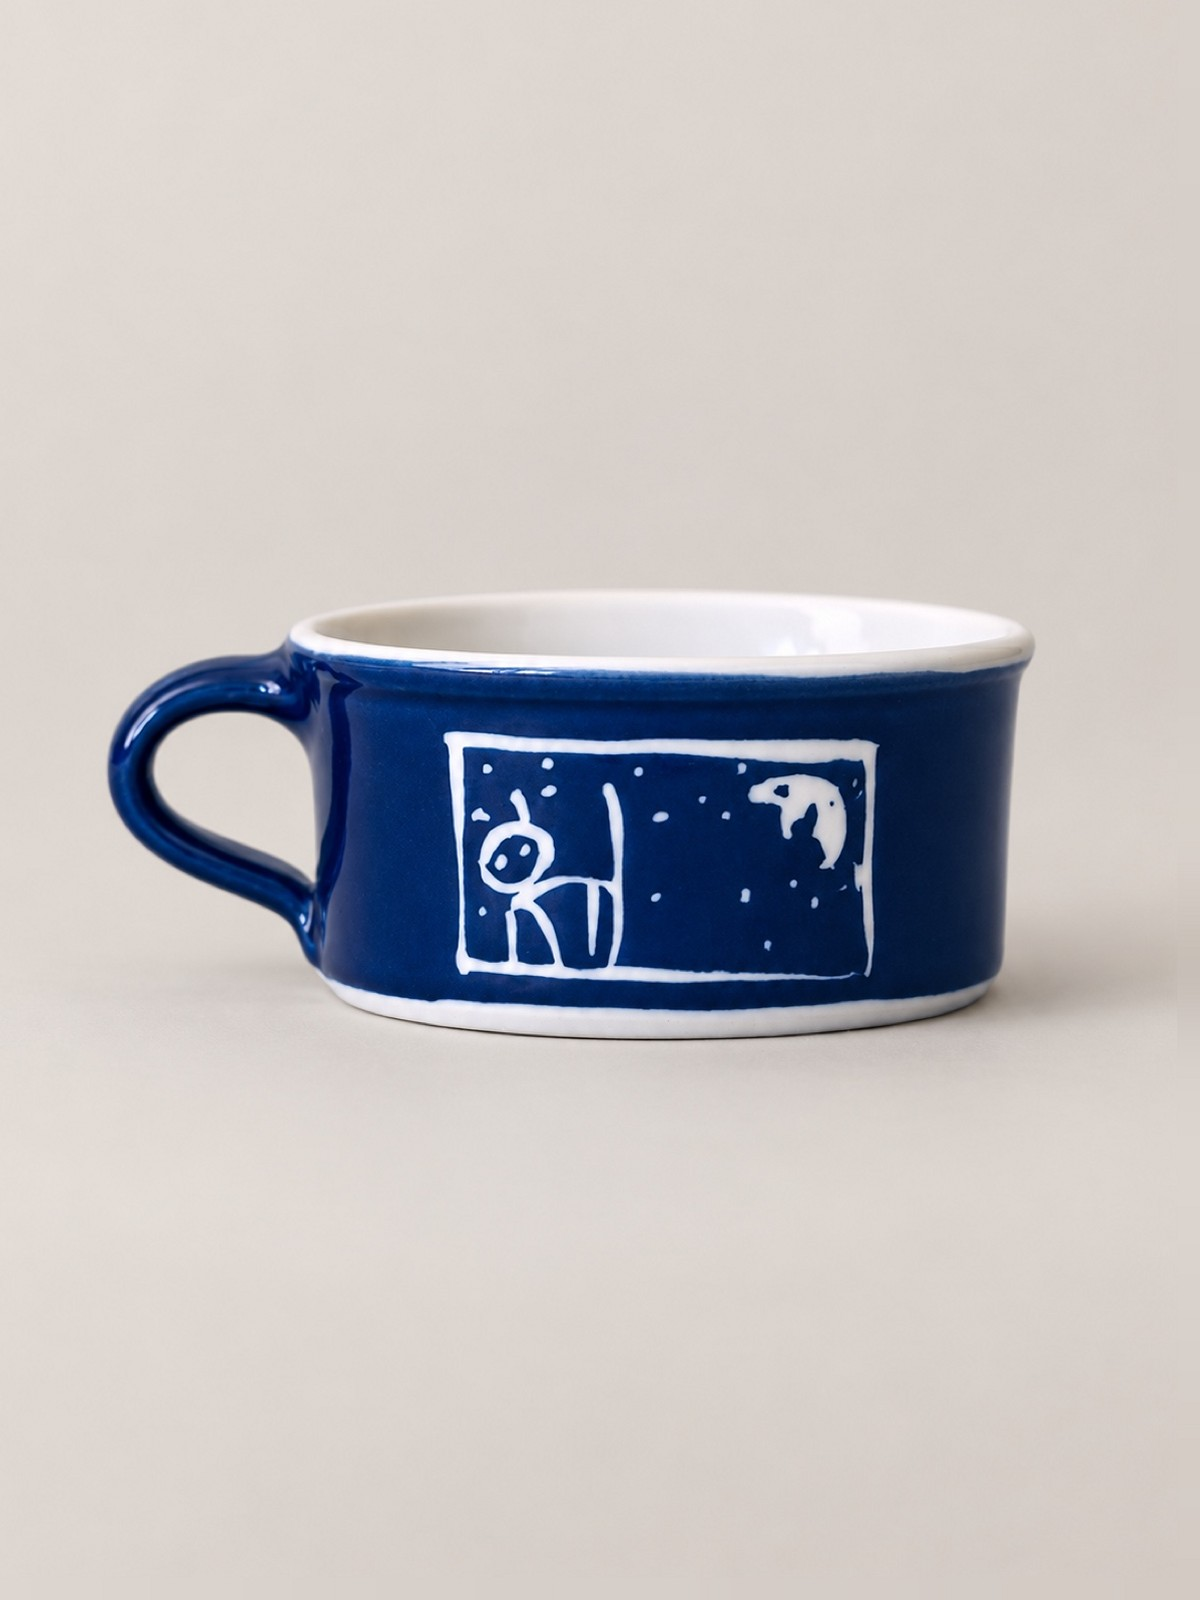
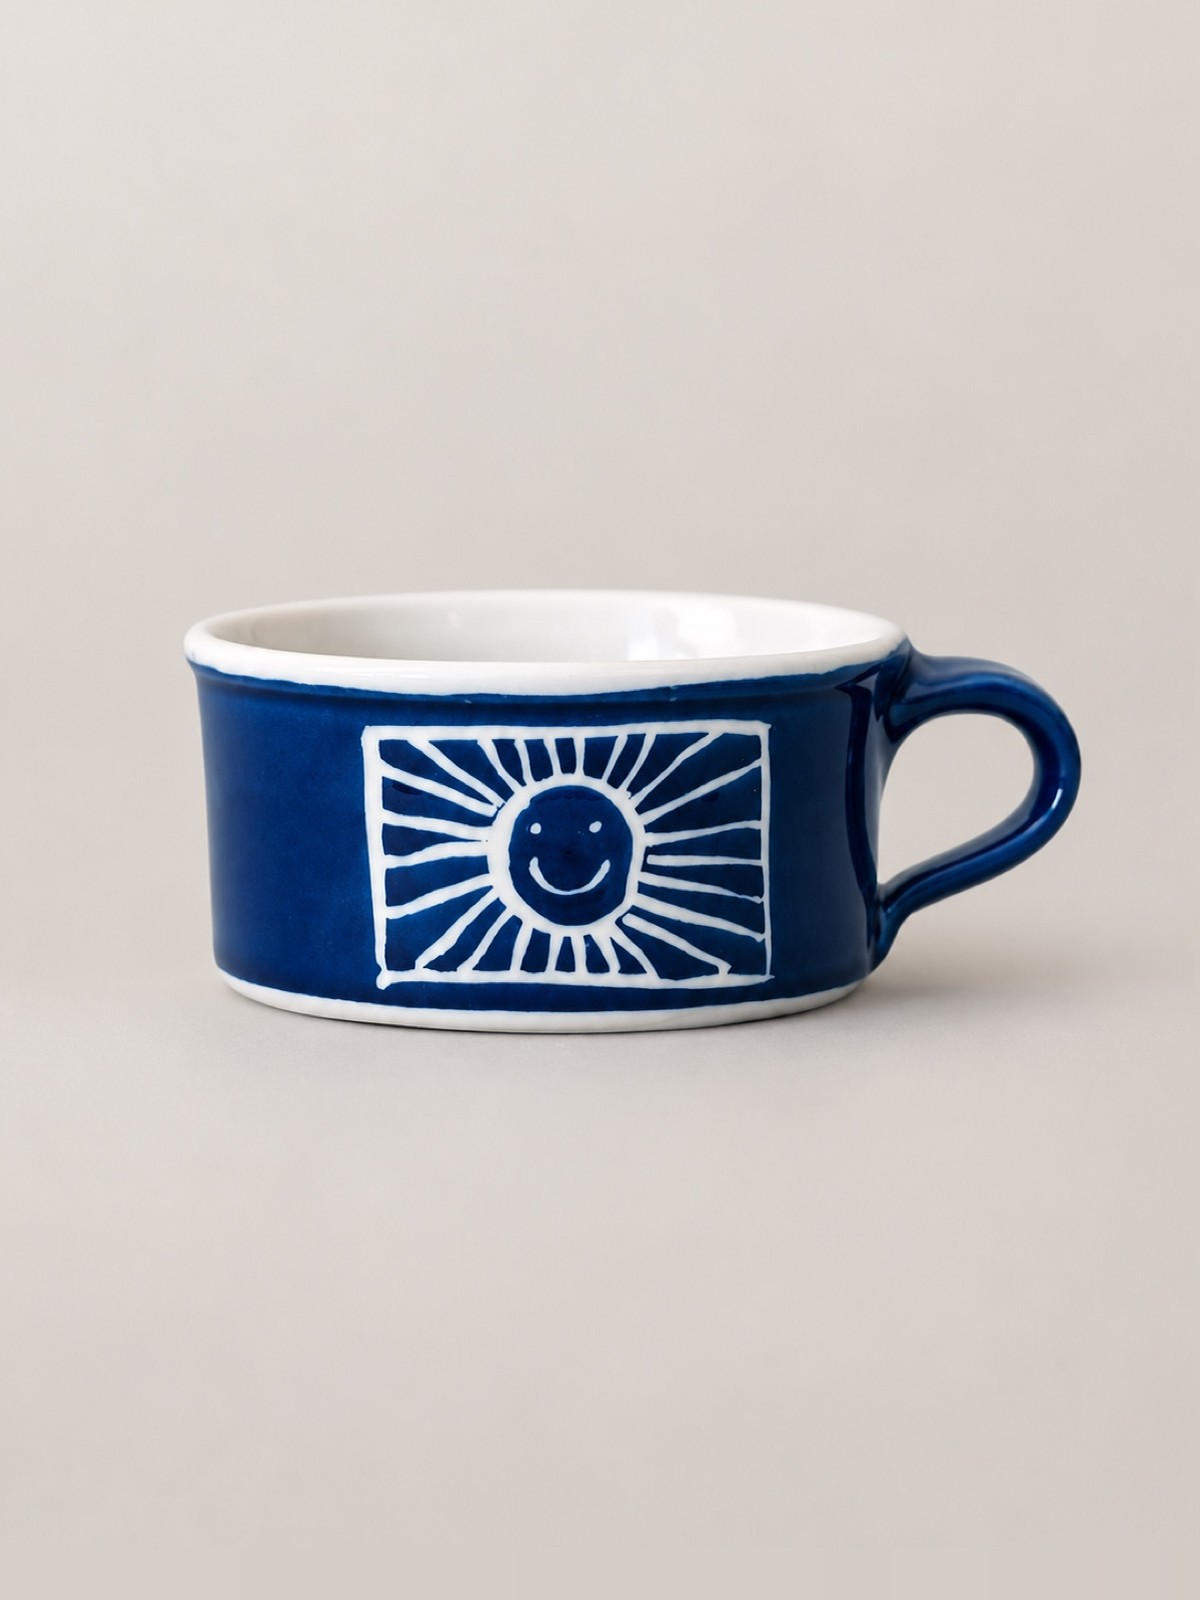
Day-and-night mugs as one product each, like the large one
The narrow, the wide and the mini day-and-night mugs show the day side (the
sun in a window) first and the night side second, as the large one does.
The old shop's separate day-side products (úzký, široký and mini "se
sluncem 2") are folded into them; each keeps the day-and-night product's
price and catalogue number. The mini "s noční kočkou" is now "mini hrnek
den a noc". The removed products' old URLs are listed in TODO.md for the
redirects in phase 7.

Claude-Session: https://claude.ai/code/session_01WcryRPSdf7xtCXEp8sfC3E

Changed region(s): [[0.0925, 0.375, 0.925, 0.6562], [0.6475, 0.3438, 0.6783, 0.375]]

diff --git a/TODO.md b/TODO.md
@@ -43,6 +43,7 @@ Otevřené otázky a chybějící fakta. Rozhoduje Sami. V kódu jsou místa ozn
 - [x] Adresa v patičce zůstává (Sami, listopad 2026).
 - [x] O nás podle `kosovi_o_nas.pdf` (Sami, listopad 2026): text z PDF s opravenými překlepy, chvalné obraty zmírněné na Samiho přání (bez superlativů, popis místo hodnocení, žádná nová fakta). Anglický překlad je pracovní (fáze 6).
 - [x] Mini hrnky „bike forever“, „ski forever“ a „wing foil forever“ odstraněny z webu (Sami, listopad 2026). Fotky a data jsou v historii gitu, ve `scripts/data/` zůstávají. Ve fázi 7 přesměrovat jejich staré adresy (`/produkt/porcelanovy-mini-hrnek-bike-forever/`, `…-ski-forever/`, `…-wing-foil-forever/`) na výpis mini hrnků.
+- [x] Hrnky den a noc jako jeden produkt, stejně jako velký (Sami, listopad 2026): první fotka denní strana se sluncem v okně, druhá noční. Produkty „Hrnek úzký se sluncem 2“ (č. 111), „Hrnek široký se sluncem 2“ (č. 074) a „Mini hrnek se sluncem 2“ (č. 033) jsou v nich sloučené, zůstává cena a katalogové číslo produktu den a noc (096, 075, 034). „Mini hrnek s noční kočkou“ se jmenuje „Mini hrnek den a noc“. Ve fázi 7 přesměrovat `/produkt/porcelanovy-hrnek-uzky-se-sluncem-2/` na `/produkt/porcelanovy-hrnek-uzky/`, `/produkt/porcelanovy-hrnek-siroky-se-sluncem-2/` na `/produkt/porcelanovy-hrnek-siroky-s-nocni-kockou/` a `/produkt/porcelanovy-mini-hrnek-se-sluncem-2/` na `/produkt/porcelanovy-mini-hrnek-s-nocni-kockou/`.
 - [ ] Úvodní stránka podle `kosovi_homepage.pdf`: v PDF není claim („Od modrobílého porcelánu…“), proto na stránce teď chybí. Vrátit ho?
 - [x] Hlavička podle druhého `kosovi_homepage.pdf` (Sami, listopad 2026): Porcelán Kosovi vede na úvod, Modrobílý porcelán do e-shopu, Daniela a Martin na jejich stránky, vše ve stejné velikosti jako zbytek webu (16 px z PDF bylo moc, Sami, listopad 2026). „Daniela a Martin Kosovi“ z hlavičky zmizelo. Košík se v menu objeví, jen když v něm něco je.
 - [x] Patička: třetí sloupec s právními odkazy odstraněn, stránky zatím nemají text (Sami, listopad 2026). Odkazy (obchodní podmínky, ochrana osobních údajů, reklamace a odstoupení) vrátit do patičky, až budou texty; objednávkový formulář na obchodní podmínky odkazovat musí.

diff --git a/CLAUDE.md b/CLAUDE.md
@@ -89,7 +89,7 @@ The old site is read-only for us. Never log in, never write to it.
 
 Old shop counts for sanity checks: 294 modrobílý porcelán, 37 Martin, 85 Daniela.
 
-**Done (phase 2).** The Store API works; the import matched all counts. Report in `scripts/data/import-report.md`. Images are the largest size WordPress serves; 48 of them WordPress had scaled to 2560 px on upload, the camera originals (about 150 MB) were not downloaded. Each product owns `src/assets/products/<slug>/01.jpg…`, even where the old shop reused a photo, so swapping a photo touches one product only. Re-running the import overwrites `src/content/products/`, so after hand edits start (featured, makers, fixes) stop re-running it or teach it to keep them. Removed on Sami's request (November 2026): the mini mugs bike forever, ski forever and wing foil forever; their old URLs need redirects in phase 7. A product without a photo stays off the site until it has one (`getProducts`, Sami, November 2026: the shot glass with two hearts); its old URL needs a redirect meanwhile.
+**Done (phase 2).** The Store API works; the import matched all counts. Report in `scripts/data/import-report.md`. Images are the largest size WordPress serves; 48 of them WordPress had scaled to 2560 px on upload, the camera originals (about 150 MB) were not downloaded. Each product owns `src/assets/products/<slug>/01.jpg…`, even where the old shop reused a photo, so swapping a photo touches one product only. Re-running the import overwrites `src/content/products/`, so after hand edits start (featured, makers, fixes) stop re-running it or teach it to keep them. Removed on Sami's request (November 2026): the mini mugs bike forever, ski forever and wing foil forever; their old URLs need redirects in phase 7. The day-and-night mugs are one product each, like the large one (Sami, November 2026): the day side (the sun in a window) first, the night side second; the old shop's separate day-side products (úzký, široký and mini "se sluncem 2") were folded into them and their old URLs need redirects to them in phase 7; the mini "s noční kočkou" is now "mini hrnek den a noc". A product without a photo stays off the site until it has one (`getProducts`, Sami, November 2026: the shot glass with two hearts); its old URL needs a redirect meanwhile.
 
 ## Product schema
 

diff --git a/src/content/products/porcelanovy-mini-hrnek-s-nocni-kockou.md b/src/content/products/porcelanovy-mini-hrnek-s-nocni-kockou.md
@@ -1,5 +1,5 @@
 ---
-title: "Porcelánový mini hrnek s noční kočkou"
+title: "Porcelánový mini hrnek den a noc"
 slug: "porcelanovy-mini-hrnek-s-nocni-kockou"
 line: "spolecna"
 category: "hrnky"
@@ -14,7 +14,9 @@ dimensions:
   volumeMl: 90
 images:
   - src: "../../assets/products/porcelanovy-mini-hrnek-s-nocni-kockou/01.jpg"
-    alt: "Porcelánový mini hrnek s noční kočkou"
+    alt: "Porcelánový mini hrnek den a noc"
+  - src: "../../assets/products/porcelanovy-mini-hrnek-s-nocni-kockou/02.jpg"
+    alt: "Porcelánový mini hrnek den a noc, foto 2"
 oldUrl: "https://kosovi.cz/produkt/porcelanovy-mini-hrnek-s-nocni-kockou/"
 description: |-
   Ručně vyráběný porcelán točený na hrnčířském kruhu. Vypalovaný minimálně 2x v peci při 1000°C a 2x při 1400°C.

diff --git a/src/content/products/porcelanovy-hrnek-siroky-s-nocni-kockou.md b/src/content/products/porcelanovy-hrnek-siroky-s-nocni-kockou.md
@@ -15,6 +15,8 @@ dimensions:
 images:
   - src: "../../assets/products/porcelanovy-hrnek-siroky-s-nocni-kockou/01.jpg"
     alt: "Porcelánový hrnek široký den a noc"
+  - src: "../../assets/products/porcelanovy-hrnek-siroky-s-nocni-kockou/02.jpg"
+    alt: "Porcelánový hrnek široký den a noc, foto 2"
 oldUrl: "https://kosovi.cz/produkt/porcelanovy-hrnek-siroky-s-nocni-kockou/"
 description: |-
   Ručně vyráběný porcelán točený na hrnčířském kruhu. Vypalovaný minimálně 2x v peci při 1000°C a 2x při 1400°C.

diff --git a/src/content/products/porcelanovy-hrnek-uzky.md b/src/content/products/porcelanovy-hrnek-uzky.md
@@ -15,6 +15,8 @@ dimensions:
 images:
   - src: "../../assets/products/porcelanovy-hrnek-uzky/01.jpg"
     alt: "Porcelánový hrnek úzký  den a noc"
+  - src: "../../assets/products/porcelanovy-hrnek-uzky/02.jpg"
+    alt: "Porcelánový hrnek úzký  den a noc, foto 2"
 oldUrl: "https://kosovi.cz/produkt/porcelanovy-hrnek-uzky/"
 description: |-
   Ručně vyráběný porcelán točený na hrnčířském kruhu. Vypalovaný minimálně 2x v peci při 1000°C a 2x při 1400°C.
